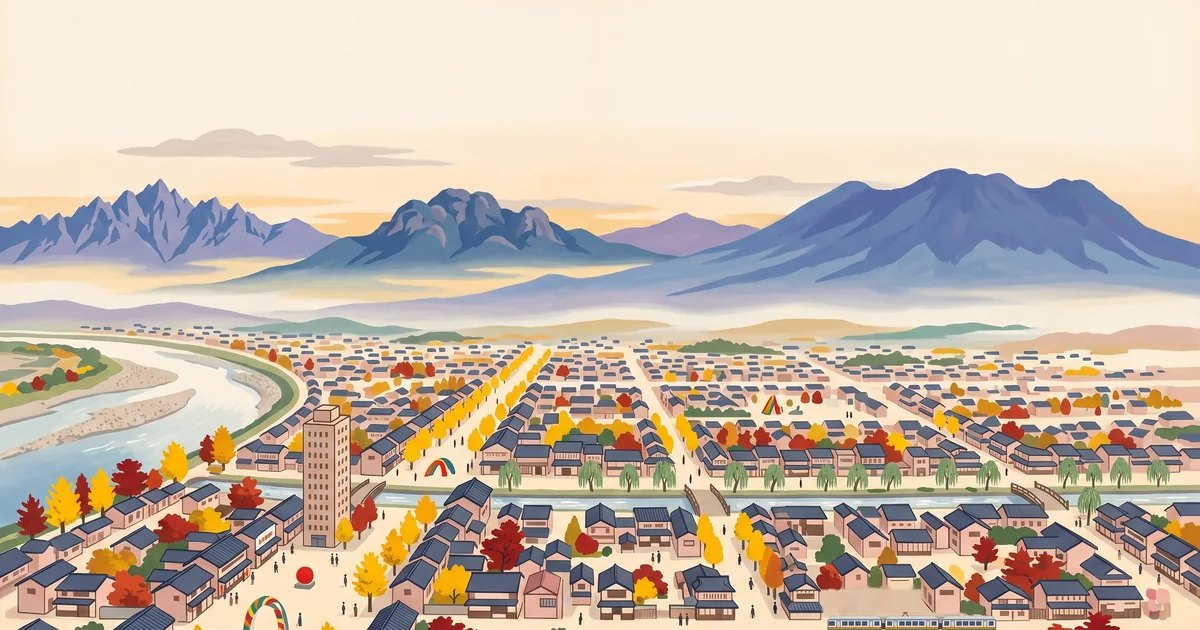
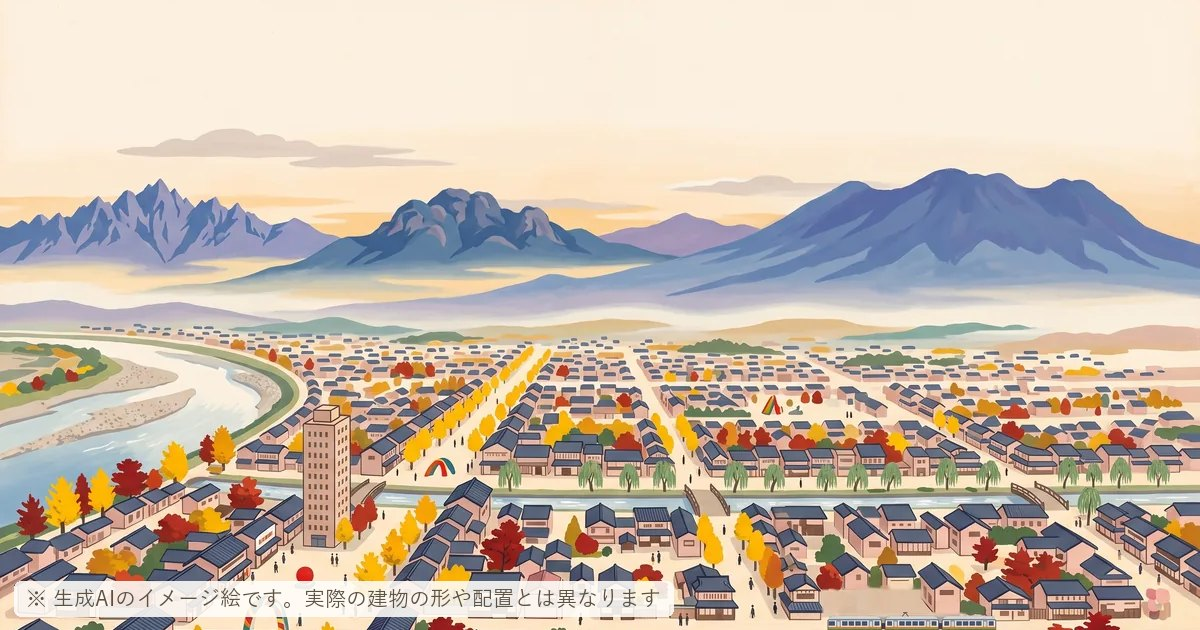
tabi: 前橋まちあるき 表紙・裏表紙の絵に「生成AIのイメージ絵」の注記を追加
- 表紙・裏表紙の絵の左下に「※ 生成AIのイメージ絵です。実際の建物の形や配置とは異なります」を重ねて表示
- og画像にも同じ注記を入れた
- フッターに、地図の下の水彩の背景も生成AIの絵であることを追記

Changed region(s): [[0.0, 0.9048, 0.5858, 0.9952]]

diff --git a/tabi/maebashi/index.html b/tabi/maebashi/index.html
@@ -459,6 +459,13 @@ details:nth-of-type(3n)   > summary::after{animation-delay:-2.7s}
 .ended{margin:14px 0 0}
 .ended[hidden]{display:none}
 .sunt td:first-child,.sunt th:first-child{white-space:nowrap}
+/* 挿絵（表紙・裏表紙）の注記。絵の左下に重ねる。明るい絵にも暗い絵にも読めるよう、紙色の小さな札にする */
+.pic{position:relative}
+.imgnote{position:absolute;left:8px;bottom:8px;z-index:3;max-width:calc(100% - 16px);
+  font-family:var(--sans);font-size:10px;line-height:1.5;letter-spacing:0;color:#5a5243;
+  background:rgba(255,253,249,.88);padding:2px 8px;border-radius:4px;pointer-events:none}
+@media (min-width:900px){.imgnote{font-size:11.5px;left:14px;bottom:12px}}
+
 /* 地図の地の絵（紙の上の洗い）。明るい画面では敷き、暗い画面では敷かない */
 @media (prefers-color-scheme: dark){:root:not([data-theme="light"]) .gimg{display:none}}
 :root[data-theme="dark"] .gimg{display:none}
@@ -507,8 +514,9 @@ details:nth-of-type(3n)   > summary::after{animation-delay:-2.7s}
     <span class="ev">ぶらり旅</span>
     <span class="ev2">〜 前橋 アートと詩のまち編 〜</span>
   </figcaption>
-  <img src="img/cover.webp" width="1200" height="670" fetchpriority="high"
+  <div class="pic"><img src="img/cover.webp" width="1200" height="670" fetchpriority="high"
        alt="前橋の街を空から見た絵図。左に利根川、手前に川と橋、高い塔の建物、赤い大きな球やカラフルなアーチ、銀杏と紅葉の並木、奥に山並み。手前を電車が走る。イメージの絵で、実際の景色そのままではありません。">
+  <span class="imgnote">※ 生成AIのイメージ絵です。実際の建物の形や配置とは異なります</span></div>
 </figure>
 
 <header>
@@ -1227,8 +1235,9 @@ details:nth-of-type(3n)   > summary::after{animation-delay:-2.7s}
 </section>
 
 <figure class="cover back">
-  <img src="img/back.webp" width="1200" height="670" loading="lazy"
+  <div class="pic"><img src="img/back.webp" width="1200" height="670" loading="lazy"
        alt="夜の前橋を空から見た絵図。広瀬川の水面に明かりが映り、窓が灯る家並み。高い塔の建物、赤い大きな球、赤白のアーチ、手前を電車が走る。遠くに山並みと、月。イメージの絵です。">
+  <span class="imgnote">※ 生成AIのイメージ絵です。実際の建物の形や配置とは異なります</span></div>
   <figcaption>
     <span class="ev2">2026.09.19 — 12.20</span>
     <span class="ev">前橋国際芸術祭 2026</span>
@@ -1240,7 +1249,7 @@ details:nth-of-type(3n)   > summary::after{animation-delay:-2.7s}
   営業時間・休み・料金は、<b>2026年10月10日の時点</b>で、施設や運営者の公式ページ、前橋観光コンベンション協会の紹介ページを一件ずつ開いて確認したものです。確認の度合いは、各カードの印のとおりです。<b>12/20までの版</b>で、そのあとの内容は保証しません。<br>
   日の出・日の入りは前橋市中心部の緯度経度からの計算値、気温は気象庁・前橋観測点の平年値（1991〜2020年）、徒歩の距離と時間は各地点の座標から出した概算です。<br>
   地図は、OpenStreetMap の道路・河川・線路のデータをもとに起こした略図で、縮尺は正確ではありません。地点の位置は、公開されている地図データと住所検索で突き合わせています。細かい位置は、各カードの「地図」から実地図でご確認ください。<br>
-  表紙と裏表紙の絵は、生成AIで作った<b>鳥瞰図風のイメージ</b>です。実際の建物の形や配置とは異なります。
+  表紙と裏表紙の絵は、生成AIで作った<b>鳥瞰図風のイメージ</b>です。実際の建物の形や配置とは異なります（絵の左下にも注記を入れてあります）。地図の下に敷いた水彩の背景も生成AIの絵で、位置は地図のデータが決めています。
   <div class="qrbox">
     <svg viewBox="-2 -2 37 37" role="img" aria-label="この案内を開くQRコード">
       <path d="M0 0h7v1h-7zM9 0h2v1h-2zM13 0h3v1h-3zM18 0h2v1h-2zM21 0h3v1h-3zM26 0h7v1h-7zM0 1h1v1h-1zM6 1h1v1h-1zM8 1h1v1h-1zM11 1h2v1h-2zM14 1h2v1h-2zM17 1h4v1h-4zM22 1h2v1h-2zM26 1h1v1h-1zM32 1h1v1h-1zM0 2h1v1h-1zM2 2h3v1h-3zM6 2h1v1h-1zM11 2h4v1h-4zM26 2h1v1h-1zM28 2h3v1h-3zM32 2h1v1h-1zM0 3h1v1h-1zM2 3h3v1h-3zM6 3h1v1h-1zM10 3h2v1h-2zM13 3h3v1h-3zM18 3h1v1h-1zM22 3h2v1h-2zM26 3h1v1h-1zM28 3h3v1h-3zM32 3h1v1h-1zM0 4h1v1h-1zM2 4h3v1h-3zM6 4h1v1h-1zM8 4h2v1h-2zM11 4h4v1h-4zM16 4h1v1h-1zM18 4h2v1h-2zM23 4h2v1h-2zM26 4h1v1h-1zM28 4h3v1h-3zM32 4h1v1h-1zM0 5h1v1h-1zM6 5h1v1h-1zM11 5h1v1h-1zM13 5h1v1h-1zM15 5h1v1h-1zM19 5h3v1h-3zM23 5h1v1h-1zM26 5h1v1h-1zM32 5h1v1h-1zM0 6h7v1h-7zM8 6h1v1h-1zM10 6h1v1h-1zM12 6h1v1h-1zM14 6h1v1h-1zM16 6h1v1h-1zM18 6h1v1h-1zM20 6h1v1h-1zM22 6h1v1h-1zM24 6h1v1h-1zM26 6h7v1h-7zM13 7h1v1h-1zM15 7h1v1h-1zM17 7h3v1h-3zM21 7h3v1h-3zM0 8h1v1h-1zM2 8h1v1h-1zM4 8h1v1h-1zM6 8h1v1h-1zM11 8h1v1h-1zM13 8h1v1h-1zM17 8h1v1h-1zM20 8h2v1h-2zM28 8h1v1h-1zM31 8h1v1h-1zM0 9h2v1h-2zM4 9h1v1h-1zM8 9h1v1h-1zM10 9h2v1h-2zM13 9h2v1h-2zM16 9h2v1h-2zM21 9h2v1h-2zM24 9h4v1h-4zM31 9h2v1h-2zM4 10h3v1h-3zM8 10h3v1h-3zM14 10h1v1h-1zM17 10h2v1h-2zM25 10h3v1h-3zM30 10h3v1h-3zM0 11h1v1h-1zM2 11h1v1h-1zM7 11h2v1h-2zM12 11h4v1h-4zM17 11h1v1h-1zM21 11h1v1h-1zM23 11h1v1h-1zM25 11h1v1h-1zM28 11h1v1h-1zM31 11h2v1h-2zM0 12h3v1h-3zM4 12h3v1h-3zM8 12h1v1h-1zM10 12h1v1h-1zM12 12h1v1h-1zM14 12h4v1h-4zM20 12h2v1h-2zM25 12h3v1h-3zM29 12h1v1h-1zM31 12h1v1h-1zM1 13h1v1h-1zM4 13h2v1h-2zM7 13h1v1h-1zM12 13h4v1h-4zM17 13h1v1h-1zM20 13h2v1h-2zM24 13h3v1h-3zM29 13h2v1h-2zM32 13h1v1h-1zM2 14h5v1h-5zM9 14h4v1h-4zM14 14h1v1h-1zM21 14h2v1h-2zM24 14h2v1h-2zM27 14h1v1h-1zM29 14h4v1h-4zM0 15h3v1h-3zM4 15h2v1h-2zM8 15h4v1h-4zM16 15h8v1h-8zM26 15h1v1h-1zM28 15h1v1h-1zM31 15h1v1h-1zM4 16h1v1h-1zM6 16h2v1h-2zM10 16h8v1h-8zM19 16h1v1h-1zM21 16h1v1h-1zM24 16h3v1h-3zM2 17h1v1h-1zM5 17h1v1h-1zM10 17h1v1h-1zM12 17h1v1h-1zM14 17h1v1h-1zM16 17h2v1h-2zM21 17h1v1h-1zM24 17h1v1h-1zM26 17h2v1h-2zM31 17h2v1h-2zM0 18h1v1h-1zM3 18h5v1h-5zM9 18h3v1h-3zM14 18h1v1h-1zM18 18h1v1h-1zM20 18h1v1h-1zM22 18h1v1h-1zM24 18h3v1h-3zM30 18h1v1h-1zM32 18h1v1h-1zM1 19h2v1h-2zM4 19h1v1h-1zM9 19h1v1h-1zM13 19h1v1h-1zM16 19h3v1h-3zM21 19h4v1h-4zM27 19h2v1h-2zM31 19h2v1h-2zM1 20h1v1h-1zM3 20h2v1h-2zM6 20h1v1h-1zM9 20h2v1h-2zM12 20h1v1h-1zM14 20h1v1h-1zM16 20h2v1h-2zM20 20h2v1h-2zM26 20h1v1h-1zM29 20h1v1h-1zM32 20h1v1h-1zM1 21h2v1h-2zM7 21h7v1h-7zM18 21h1v1h-1zM20 21h2v1h-2zM24 21h3v1h-3zM30 21h3v1h-3zM0 22h1v1h-1zM3 22h2v1h-2zM6 22h2v1h-2zM11 22h1v1h-1zM13 22h2v1h-2zM22 22h1v1h-1zM25 22h2v1h-2zM29 22h1v1h-1zM31 22h2v1h-2zM1 23h1v1h-1zM4 23h2v1h-2zM7 23h1v1h-1zM11 23h5v1h-5zM17 23h1v1h-1zM20 23h4v1h-4zM25 23h1v1h-1zM28 23h2v1h-2zM32 23h1v1h-1zM0 24h1v1h-1zM6 24h2v1h-2zM9 24h1v1h-1zM11 24h1v1h-1zM14 24h4v1h-4zM19 24h1v1h-1zM21 24h1v1h-1zM24 24h5v1h-5zM8 25h2v1h-2zM13 25h1v1h-1zM16 25h2v1h-2zM21 25h1v1h-1zM24 25h1v1h-1zM28 25h2v1h-2zM31 25h2v1h-2zM0 26h7v1h-7zM13 26h2v1h-2zM16 26h3v1h-3zM21 26h4v1h-4zM26 26h1v1h-1zM28 26h1v1h-1zM30 26h3v1h-3zM0 27h1v1h-1zM6 27h1v1h-1zM10 27h3v1h-3zM14 27h1v1h-1zM16 27h3v1h-3zM21 27h1v1h-1zM24 27h1v1h-1zM28 27h1v1h-1zM0 28h1v1h-1zM2 28h3v1h-3zM6 28h1v1h-1zM8 28h1v1h-1zM10 28h1v1h-1zM14 28h4v1h-4zM20 28h2v1h-2zM24 28h6v1h-6zM31 28h2v1h-2zM0 29h1v1h-1zM2 29h3v1h-3zM6 29h1v1h-1zM9 29h3v1h-3zM13 29h2v1h-2zM16 29h1v1h-1zM28 29h1v1h-1zM30 29h1v1h-1zM32 29h1v1h-1zM0 30h1v1h-1zM2 30h3v1h-3zM6 30h1v1h-1zM8 30h1v1h-1zM13 30h2v1h-2zM16 30h1v1h-1zM21 30h1v1h-1zM24 30h1v1h-1zM28 30h2v1h-2zM32 30h1v1h-1zM0 31h1v1h-1zM6 31h1v1h-1zM12 31h1v1h-1zM15 31h1v1h-1zM17 31h1v1h-1zM19 31h1v1h-1zM21 31h1v1h-1zM23 31h2v1h-2zM26 31h1v1h-1zM28 31h1v1h-1zM31 31h1v1h-1zM0 32h7v1h-7zM8 32h3v1h-3zM12 32h1v1h-1zM14 32h6v1h-6zM21 32h6v1h-6zM28 32h1v1h-1zM31 32h2v1h-2z" fill="var(--ink)"/>
